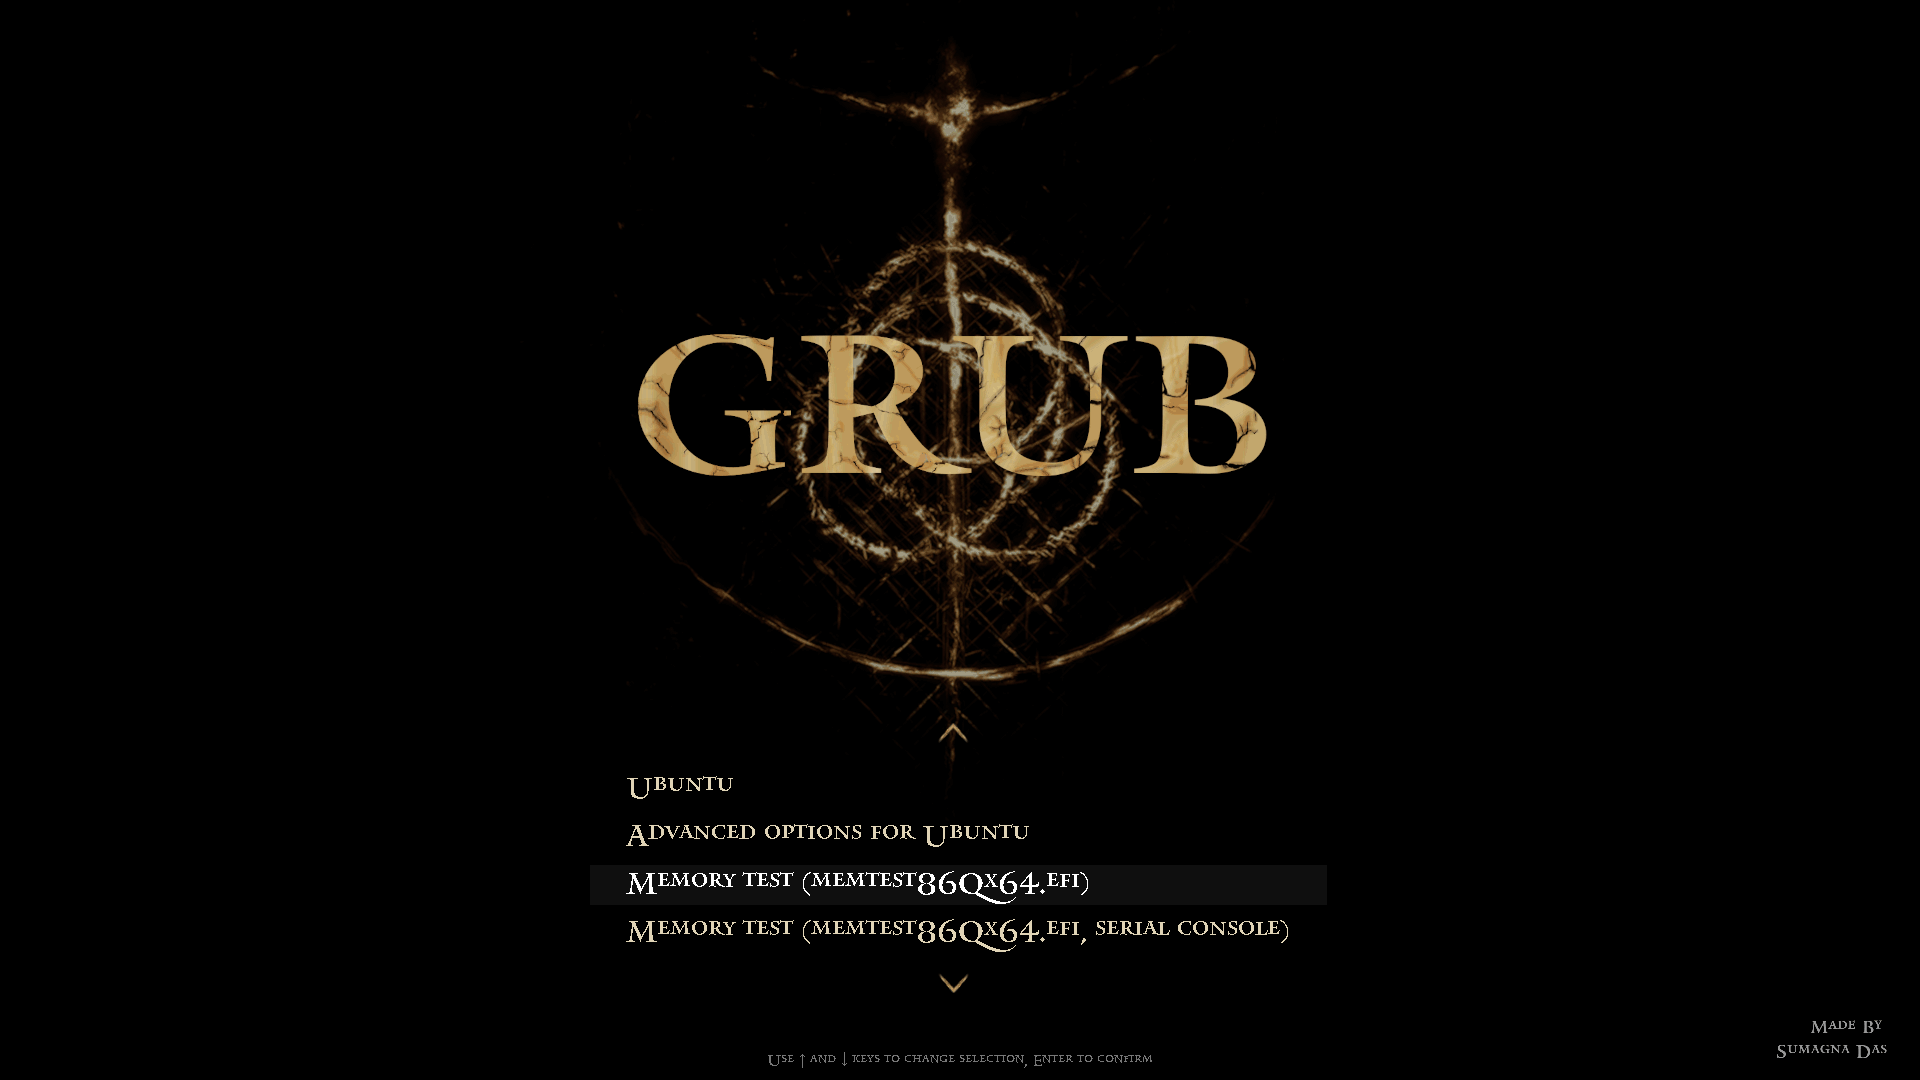
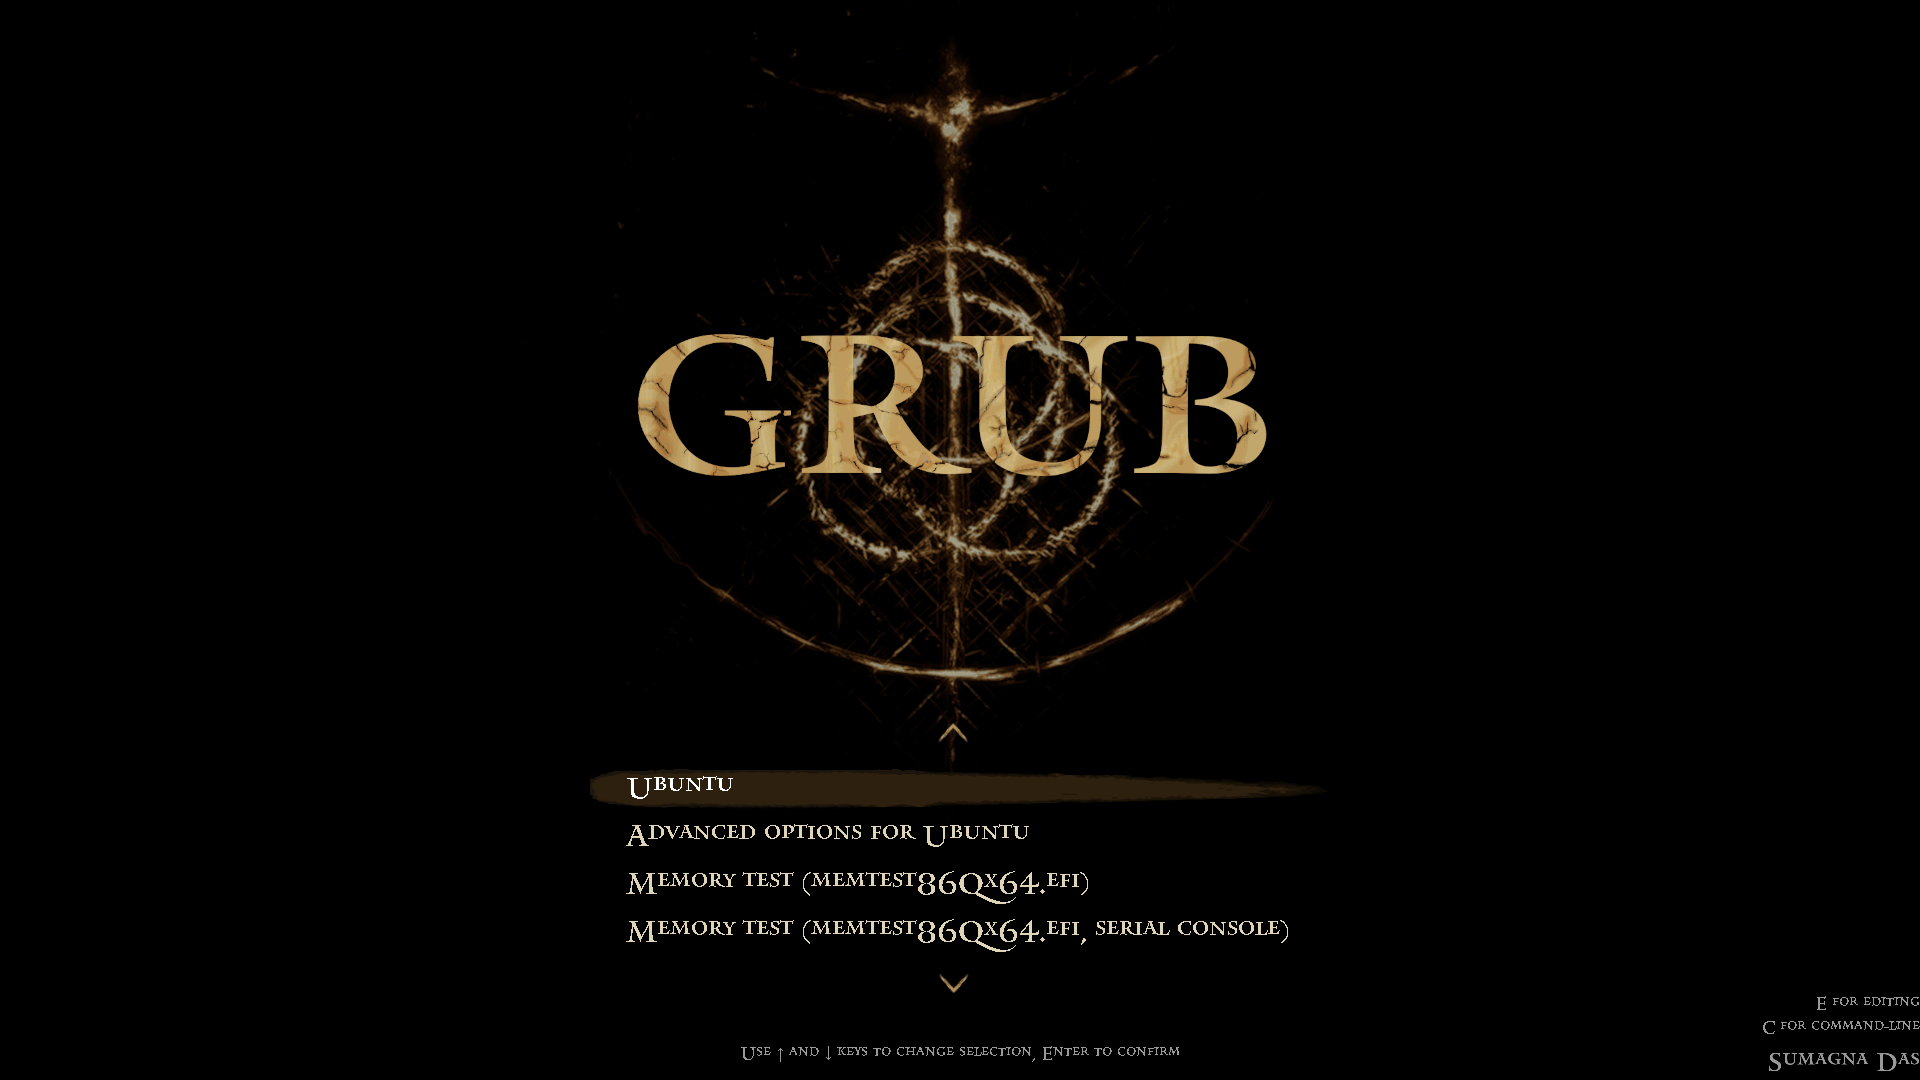
Made the selected item overlay better

diff --git a/README.md b/README.md
@@ -10,7 +10,6 @@ Made it in free time just for my own amusement so might not look good.
 4) Your theme is ready. Now enjoy!
 
 ## TO-DO
-- Make the selected item overlay better
 - Make the text centered if possible
 - Make the terminal look like the settings tab of Elden Ring
 
